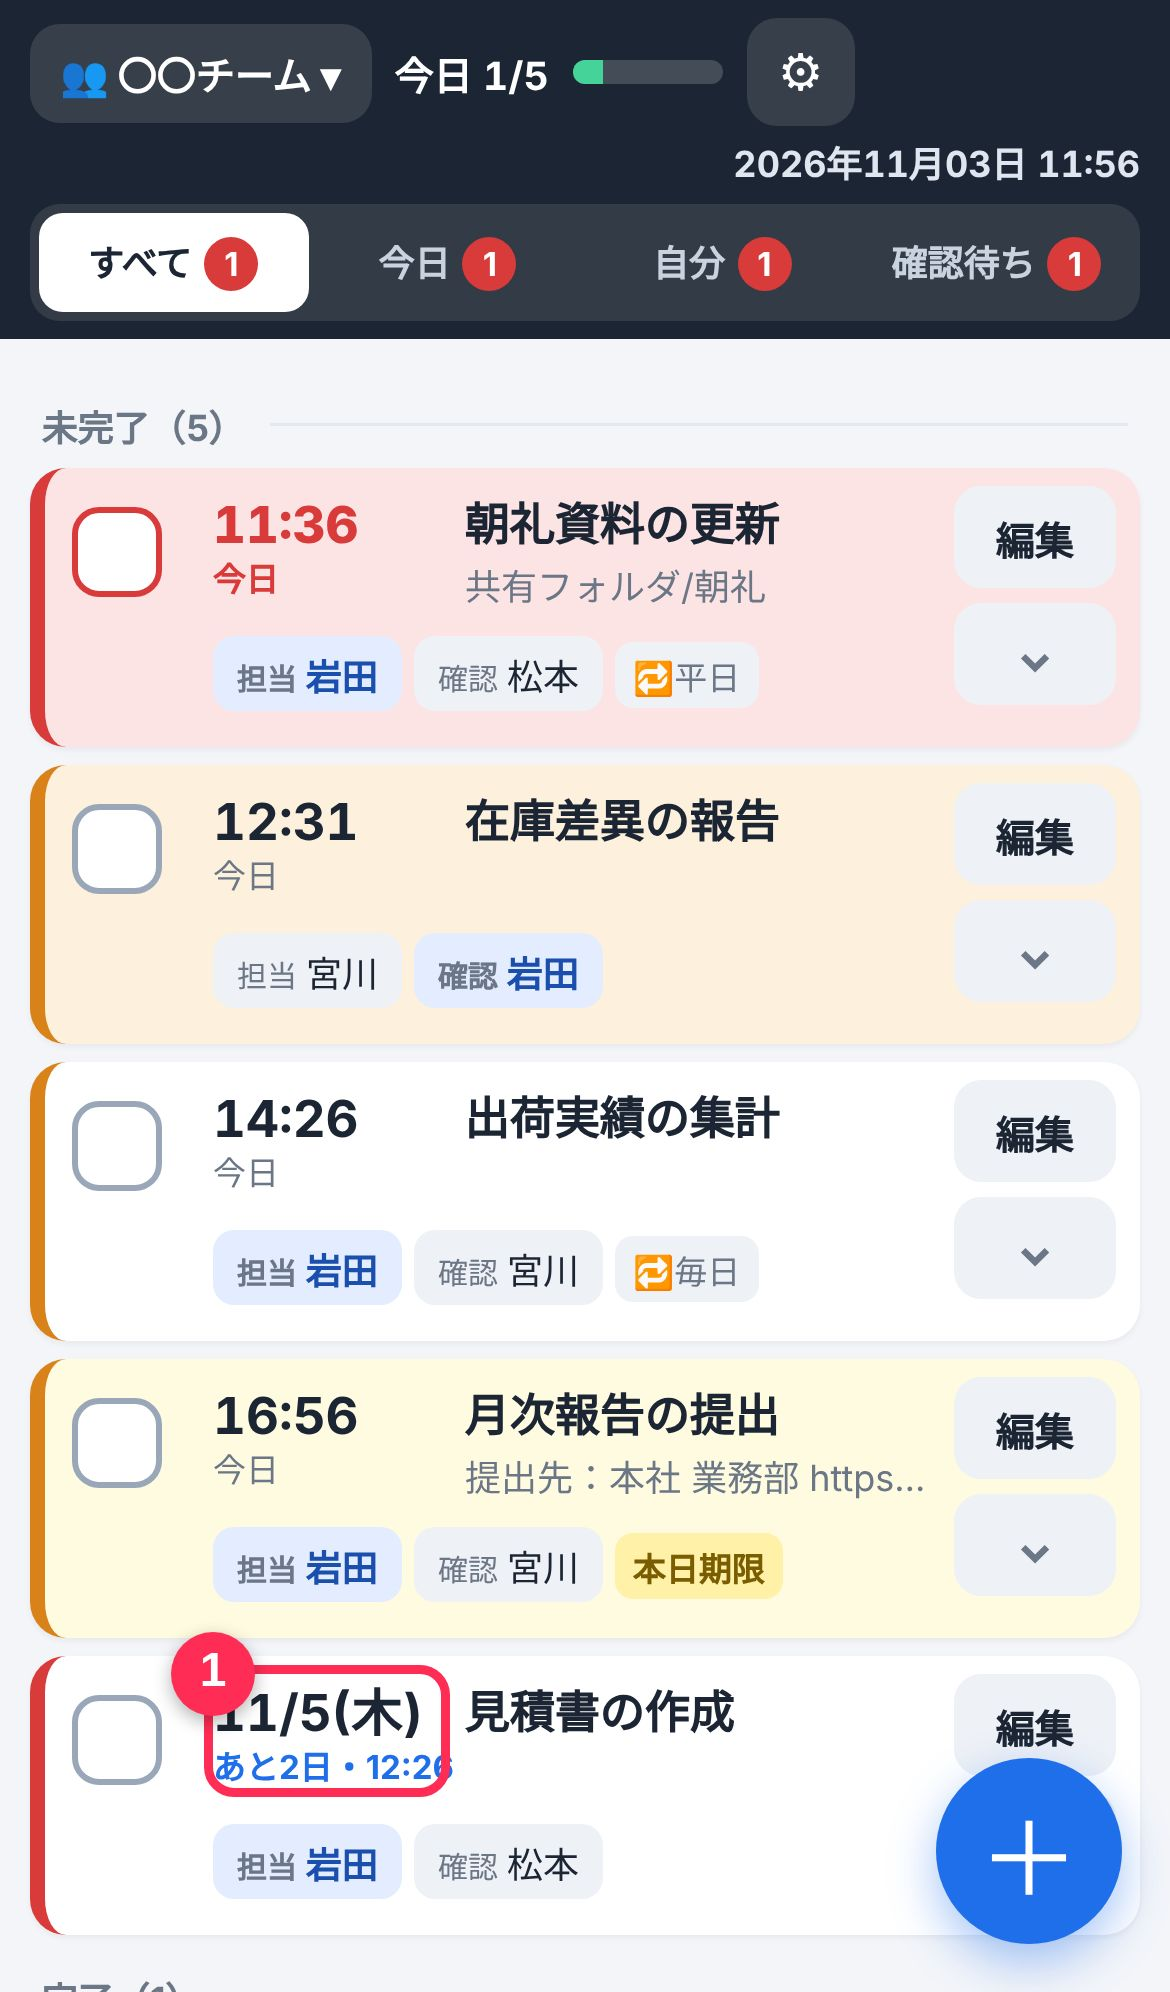
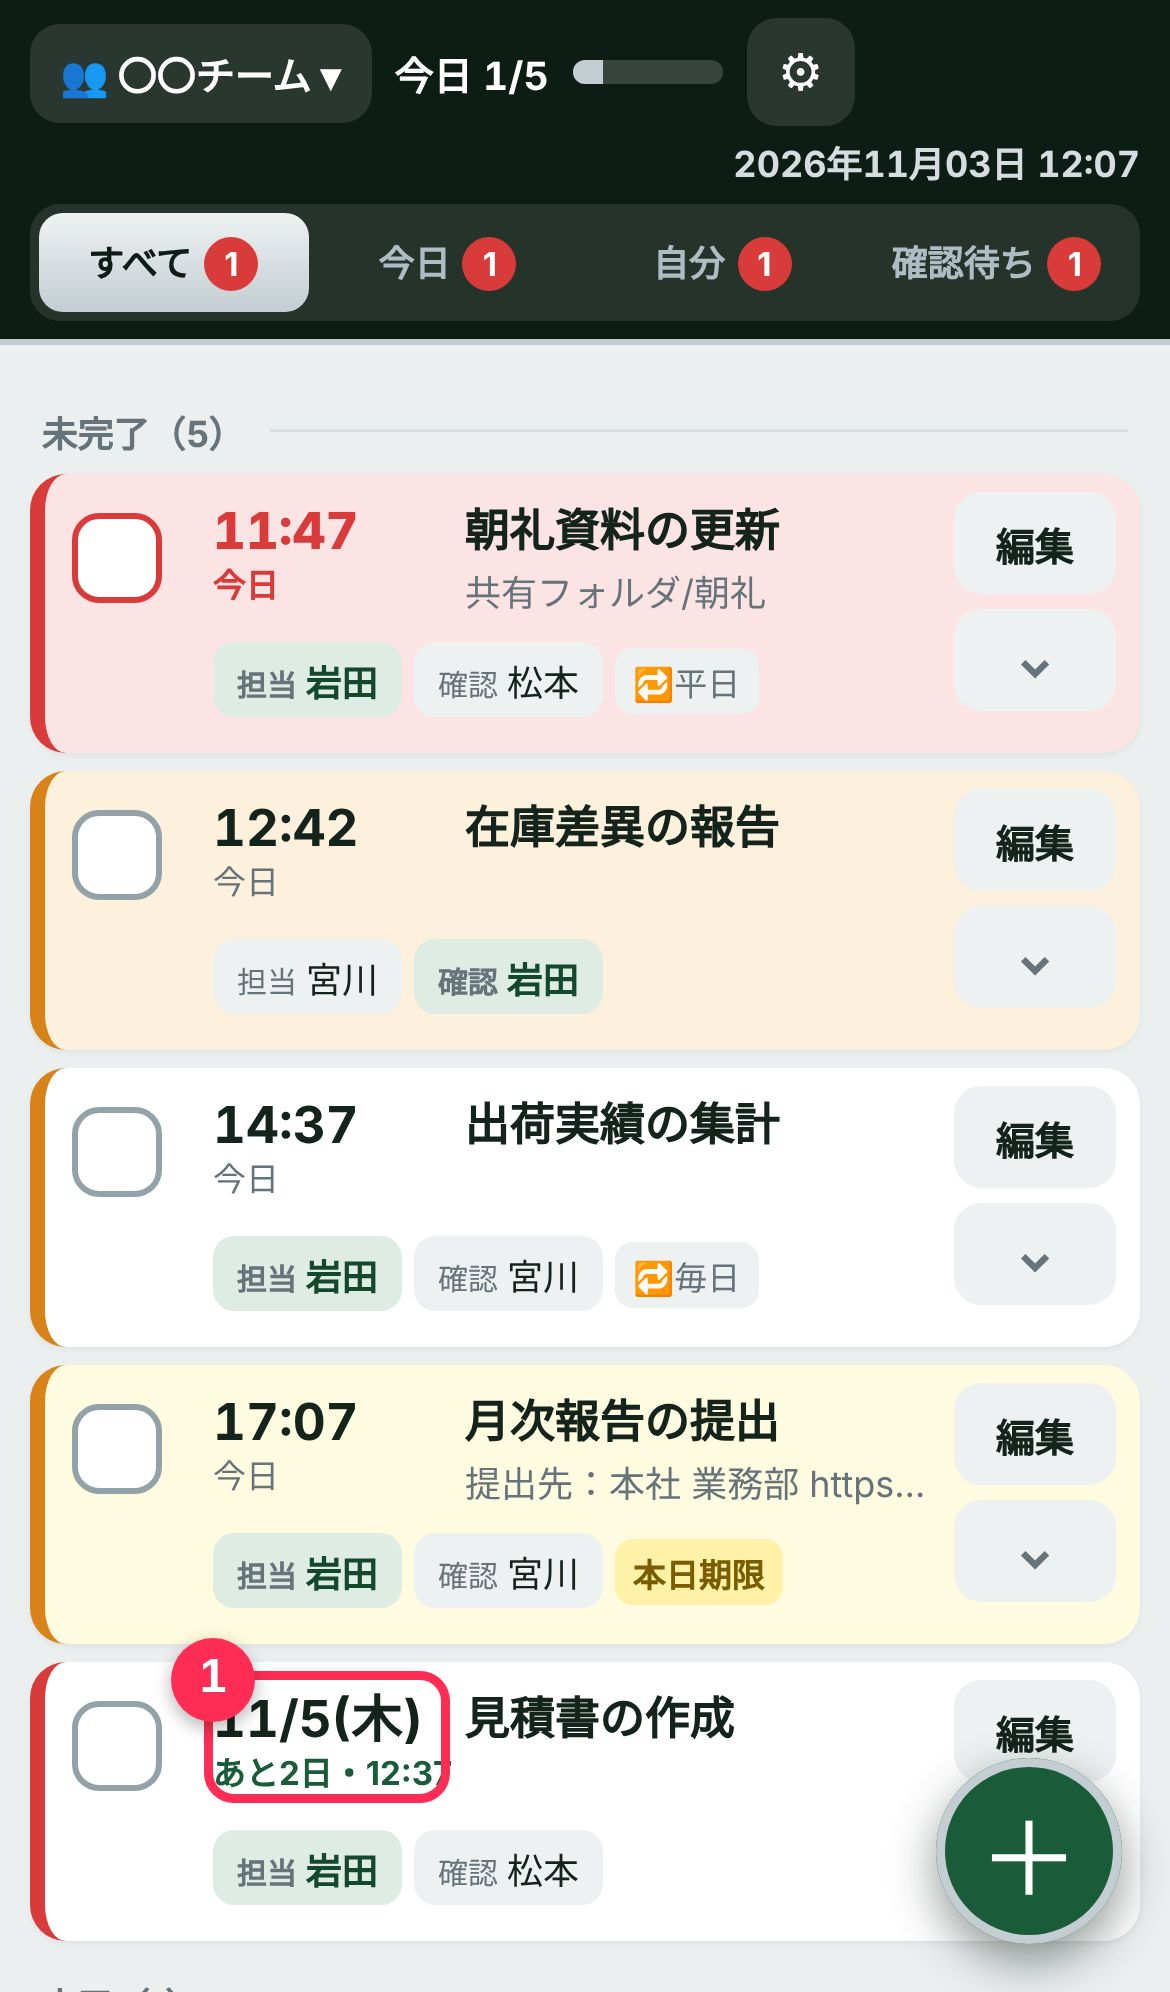
配色をスリザリン風（深緑×銀×黒）に変更
Claude-Session: https://claude.ai/code/session_01CCTYimLHoh7ksLE7jkJJnQ

diff --git a/index.html b/index.html
@@ -4,7 +4,7 @@
 <meta charset="utf-8">
 <meta name="viewport" content="width=device-width,initial-scale=1,viewport-fit=cover">
 <title>チームToDo</title>
-<meta name="theme-color" content="#1c2533">
+<meta name="theme-color" content="#0d1c14">
 <meta name="apple-mobile-web-app-capable" content="yes">
 <meta name="mobile-web-app-capable" content="yes">
 <meta name="apple-mobile-web-app-status-bar-style" content="black-translucent">
@@ -14,26 +14,26 @@
 <link rel="manifest" href="manifest.json">
 <script src="config.js"></script>
 <style>
-:root{--bg:#f3f5f9;--card:#fff;--ink:#1c2533;--sub:#6b7686;--line:#e4e8ef;--main:#1f6feb;--main2:#e3edff;--ok:#24946a;--ok2:#ddf3e9;--warn:#d9821a;--warn2:#fdf0dc;--bad:#d93a3a;--bad2:#fde4e4;--hd:#1c2533}
+:root{--bg:#eceff0;--card:#fff;--ink:#14231b;--sub:#66737a;--line:#d8dee1;--main:#1a5c3a;--main2:#dfece4;--ok:#6c7f89;--ok2:#e4eaed;--warn:#d9821a;--warn2:#fdf0dc;--bad:#d93a3a;--bad2:#fde4e4;--hd:#0d1c14;--silver:#c3cdd2}
 *{box-sizing:border-box;margin:0;padding:0}
 html,body{height:100%}
 body{overflow-x:hidden;font-family:-apple-system,BlinkMacSystemFont,"Hiragino Sans","Noto Sans JP",sans-serif;background:var(--bg);color:var(--ink);-webkit-tap-highlight-color:transparent;overscroll-behavior-y:none}
 button{font:inherit;color:inherit;border:0;background:none;cursor:pointer}
 input,select,textarea{font:inherit;color:inherit}
 /* header */
-header{position:sticky;top:0;z-index:20;background:var(--hd);color:#fff;display:flex;align-items:center;gap:10px;
+header{border-bottom:2px solid var(--silver);position:sticky;top:0;z-index:20;background:var(--hd);color:#fff;display:flex;align-items:center;gap:10px;
  padding:calc(6px + env(safe-area-inset-top)) calc(10px + env(safe-area-inset-right)) 6px calc(10px + env(safe-area-inset-left));min-height:50px}
 .brand{font-weight:800;font-size:16px;white-space:nowrap}
 .prog{display:flex;align-items:center;gap:8px;min-width:120px}
 .ptxt{font-size:13px;font-weight:700;white-space:nowrap;font-variant-numeric:tabular-nums}
 .pbar{width:80px;height:8px;background:rgba(255,255,255,.18);border-radius:5px;overflow:hidden}
-.pbar i{display:block;height:100%;width:0;background:#46d39a;transition:width .4s}
+.pbar i{display:block;height:100%;width:0;background:var(--silver);transition:width .4s}
 .seg{display:flex;background:rgba(255,255,255,.1);border-radius:10px;padding:3px;gap:2px;margin-left:auto}
-.seg button{padding:7px 12px;border-radius:8px;font-size:13px;font-weight:700;color:#c9d2df;white-space:nowrap;position:relative}
-.seg button.on{background:#fff;color:var(--hd)}
+.seg button{padding:7px 12px;border-radius:8px;font-size:13px;font-weight:700;color:#aebcc3;white-space:nowrap;position:relative}
+.seg button.on{background:linear-gradient(180deg,#eef2f3,#c3cdd2);color:var(--hd)}
 .seg .n{display:inline-block;min-width:18px;padding:0 5px;margin-left:4px;border-radius:9px;background:var(--bad);color:#fff;font-size:11px;line-height:18px}
 .me{padding:7px 10px;border-radius:10px;background:rgba(255,255,255,.12);font-size:13px;font-weight:700;white-space:nowrap}
-.clock{font-size:13px;font-weight:700;white-space:nowrap;font-variant-numeric:tabular-nums;color:#dfe6f0;text-align:right;line-height:1.2}
+.clock{font-size:13px;font-weight:700;white-space:nowrap;font-variant-numeric:tabular-nums;color:#d5dde1;text-align:right;line-height:1.2}
 .team{padding:7px 10px;border-radius:10px;background:rgba(255,255,255,.12);font-size:13px;font-weight:700;white-space:nowrap;max-width:170px;overflow:hidden;text-overflow:ellipsis}
 .tl{display:flex;align-items:center;gap:10px;background:#fff;border-radius:12px;padding:12px 14px;margin-bottom:8px;border:2px solid transparent}
 .tl.cur{border-color:var(--main)}
@@ -48,19 +48,19 @@ main{padding:8px calc(10px + env(safe-area-inset-right)) calc(90px + env(safe-ar
 .sec{font-size:12px;font-weight:700;color:var(--sub);margin:12px 4px 6px;display:flex;align-items:center;gap:8px}
 .sec::after{content:"";flex:1;height:1px;background:var(--line)}
 .row{display:grid;grid-template-columns:52px 96px 1fr auto auto;align-items:center;gap:8px;background:var(--card);border-radius:12px;margin-bottom:6px;min-height:58px;padding:4px 10px 4px 0;
- box-shadow:0 1px 2px rgba(0,0,0,.05);border-left:5px solid #c9d1dc;transition:transform .35s,opacity .35s}
-.row.p0{border-left-color:var(--bad)}.row.p1{border-left-color:var(--warn)}.row.p2{border-left-color:#9fb0c4}
+ box-shadow:0 1px 2px rgba(0,0,0,.05);border-left:5px solid #bcc7cc;transition:transform .35s,opacity .35s}
+.row.p0{border-left-color:var(--bad)}.row.p1{border-left-color:var(--warn)}.row.p2{border-left-color:#a3b0b6}
 .row.over{background:var(--bad2)}
 .row.soon{background:var(--warn2)}
 .row.leaving{transform:translateY(30px);opacity:0}
 .row.done{opacity:.62;border-left-color:var(--ok)}
-.row.done.wait{opacity:1;background:#eaf8f1;border-left-color:var(--ok)}
+.row.done.wait{opacity:1;background:#e9eef1;border-left-color:var(--ok)}
 .row.done.wait .t{text-decoration:none;color:var(--ink)}
 .row.mild{background:#fffbe0}
-.tag.w{background:#d7f3e5;color:#16784f;font-weight:700}
+.tag.w{background:#dde5e9;color:#46565f;font-weight:700}
 .tag.y{background:#fff1a8;color:#7a5d00;font-weight:700}
-.xv{width:34px;height:34px;border-radius:9px;background:#eef1f6;color:var(--sub);font-size:15px;font-weight:900;transition:transform .25s;flex:none}
-.xe{height:34px;padding:0 10px;border-radius:9px;background:#eef1f6;color:var(--ink);font-size:13px;font-weight:700;white-space:nowrap}
+.xv{width:34px;height:34px;border-radius:9px;background:#eef1f2;color:var(--sub);font-size:15px;font-weight:900;transition:transform .25s;flex:none}
+.xe{height:34px;padding:0 10px;border-radius:9px;background:#eef1f2;color:var(--ink);font-size:13px;font-weight:700;white-space:nowrap}
 .acts .xv{width:auto}
 .row.xo .xv{transform:rotate(180deg);background:var(--main2);color:var(--main)}
 .xp{grid-column:1/-1;display:grid;grid-template-rows:0fr;transition:grid-template-rows .28s ease}
@@ -72,7 +72,7 @@ main{padding:8px calc(10px + env(safe-area-inset-right)) calc(90px + env(safe-ar
 .xin dl{display:grid;grid-template-columns:auto 1fr;gap:0 12px}
 .xin dt{color:var(--sub)}
 .xin .eb{margin-top:8px;padding:8px 16px;border-radius:9px;background:var(--main);color:#fff;font-weight:700;font-size:13px}
-.sub{display:flex;gap:4px;background:#e6eaf0;border-radius:10px;padding:3px;margin:10px 4px 0;width:max-content}
+.sub{display:flex;gap:4px;background:#dfe4e6;border-radius:10px;padding:3px;margin:10px 4px 0;width:max-content}
 .sub button{padding:6px 14px;border-radius:8px;font-size:13px;font-weight:700;color:var(--sub)}
 .sub button.on{background:#fff;color:var(--ink);box-shadow:0 1px 2px rgba(0,0,0,.08)}
 #mild .card{max-width:520px;margin:auto;width:calc(100% - 24px)}
@@ -80,7 +80,7 @@ main{padding:8px calc(10px + env(safe-area-inset-right)) calc(90px + env(safe-ar
 #mild .mi b{font-size:18px;font-variant-numeric:tabular-nums;min-width:56px}
 .row.done .t{text-decoration:line-through;color:var(--sub)}
 .ck{width:52px;height:52px;display:flex;align-items:center;justify-content:center}
-.ck span{width:30px;height:30px;border-radius:9px;border:2.5px solid #9aa7b8;display:flex;align-items:center;justify-content:center;font-size:18px;font-weight:900;color:#fff;background:#fff;transition:.15s}
+.ck span{width:30px;height:30px;border-radius:9px;border:2.5px solid #93a2a9;display:flex;align-items:center;justify-content:center;font-size:18px;font-weight:900;color:#fff;background:#fff;transition:.15s}
 .row.over .ck span{border-color:var(--bad)}
 .row.done .ck span{background:var(--ok);border-color:var(--ok)}
 .due{line-height:1.15}
@@ -92,18 +92,18 @@ main{padding:8px calc(10px + env(safe-area-inset-right)) calc(90px + env(safe-ar
 .t{font-size:15px;font-weight:700;white-space:nowrap;overflow:hidden;text-overflow:ellipsis}
 .d{font-size:12px;color:var(--sub);white-space:nowrap;overflow:hidden;text-overflow:ellipsis}
 .ppl{display:flex;gap:5px;flex-wrap:nowrap;align-items:center}
-.who{font-size:12px;padding:4px 8px;border-radius:7px;background:#eef1f6;white-space:nowrap}
+.who{font-size:12px;padding:4px 8px;border-radius:7px;background:#eef1f2;white-space:nowrap}
 .who i{font-style:normal;color:var(--sub);font-size:10px;margin-right:3px}
-.who.mine{background:var(--main2);color:#1a4fae;font-weight:700}
+.who.mine{background:var(--main2);color:#14482d;font-weight:700}
 .tags{display:flex;gap:4px;align-items:center;justify-content:flex-end;flex-wrap:wrap}
 .tags:empty{display:none}
 .acts{display:flex;flex-direction:column;gap:5px;align-items:stretch}
-.tag{font-size:11px;padding:3px 6px;border-radius:6px;background:#eef1f6;color:var(--sub);white-space:nowrap}
+.tag{font-size:11px;padding:3px 6px;border-radius:6px;background:#eef1f2;color:var(--sub);white-space:nowrap}
 .cfm{font-size:12px;font-weight:700;padding:7px 10px;border-radius:8px;background:var(--main);color:#fff;white-space:nowrap}
 .okd{font-size:11px;color:var(--ok);font-weight:700;white-space:nowrap}
 .empty{text-align:center;color:var(--sub);padding:34px 10px;font-size:14px}
 .empty b{display:block;font-size:30px;margin-bottom:6px}
-.fab{position:fixed;right:calc(16px + env(safe-area-inset-right));bottom:calc(16px + env(safe-area-inset-bottom));width:62px;height:62px;border-radius:50%;background:var(--main);color:#fff;font-size:34px;font-weight:300;box-shadow:0 6px 16px rgba(31,111,235,.4);z-index:15}
+.fab{position:fixed;right:calc(16px + env(safe-area-inset-right));bottom:calc(16px + env(safe-area-inset-bottom));width:62px;height:62px;border-radius:50%;background:var(--main);color:#fff;font-size:34px;font-weight:300;box-shadow:0 6px 16px rgba(13,28,20,.45),inset 0 0 0 3px var(--silver);z-index:15}
 /* sheets */
 .ov{position:fixed;inset:0;padding-top:env(safe-area-inset-top);background:rgba(15,22,33,.45);z-index:40;display:none;align-items:flex-end;justify-content:center}
 .ov.show{display:flex}
@@ -128,7 +128,7 @@ textarea.in{min-height:56px;resize:vertical}
 .chip.on{background:var(--main);border-color:var(--main);color:#fff}
 .chip.pr0.on{background:var(--bad);border-color:var(--bad)}
 .chip.pr1.on{background:var(--warn);border-color:var(--warn)}
-.chip.pr2.on{background:#7c8da3;border-color:#7c8da3}
+.chip.pr2.on{background:#7d8d95;border-color:#7d8d95}
 .inl{display:flex;gap:8px;align-items:center;flex-wrap:wrap}
 .inl .in{width:auto;flex:1;min-width:130px}
 .del{margin-top:16px;width:100%;padding:12px;border-radius:10px;background:var(--bad2);color:var(--bad);font-weight:700}
@@ -137,8 +137,8 @@ textarea.in{min-height:56px;resize:vertical}
 .card h4{font-size:13px;margin-bottom:8px}
 .card p{font-size:12px;color:var(--sub);line-height:1.6}
 .btn{display:inline-block;padding:10px 16px;border-radius:10px;background:var(--main);color:#fff;font-weight:700;font-size:14px}
-.btn.sub{background:var(--main2);color:#1a4fae}
-.btn.gray{background:#eef1f6;color:var(--ink)}
+.btn.sub{background:var(--main2);color:#14482d}
+.btn.gray{background:#eef1f2;color:var(--ink)}
 .mem{display:flex;gap:6px;margin-bottom:6px}
 .mem .in{padding:8px 10px}
 .mem button{padding:0 12px;white-space:nowrap;flex:none;border-radius:9px;background:var(--bad2);color:var(--bad);font-weight:700}
@@ -270,7 +270,7 @@ textarea.in{min-height:56px;resize:vertical}
     <div style="margin-top:8px;display:flex;gap:6px;flex-wrap:wrap"><button class="btn" id="sShare">招待リンクを送る</button><button class="btn sub" id="sCopy">コピー</button></div>
     <p style="margin-top:6px;word-break:break-all" id="sLink"></p></div>
    <div class="card"><h4>メンバー</h4><div id="sMem"></div>
-    <div class="mem"><input class="in" id="sNew" placeholder="名前を追加" maxlength="12"><button style="background:var(--main2);color:#1a4fae" id="sAdd">追加</button></div></div>
+    <div class="mem"><input class="in" id="sNew" placeholder="名前を追加" maxlength="12"><button style="background:var(--main2);color:#14482d" id="sAdd">追加</button></div></div>
    <div class="card"><h4>📖 使い方ガイド</h4><p>はじめての人向けの説明書です。</p><div style="margin-top:8px"><a class="btn sub" href="manual.html" style="text-decoration:none">ガイドを開く</a></div></div>
    <div class="card"><h4>チーム</h4><p id="sTeam"></p><div style="margin-top:8px"><button class="btn gray" id="sLeave">チームを切り替える</button></div></div>
   </div>

diff --git a/manual.html b/manual.html
@@ -4,13 +4,13 @@
 <meta charset="utf-8">
 <meta name="viewport" content="width=device-width,initial-scale=1,viewport-fit=cover">
 <title>チームToDo 使い方ガイド</title>
-<meta name="theme-color" content="#1c2533">
+<meta name="theme-color" content="#0d1c14">
 <link rel="icon" type="image/png" href="icon-192.png">
 <style>
-:root{--ink:#1c2533;--sub:#6b7686;--bg:#f3f5f9;--main:#1f6feb;--main2:#e3edff;--red:#ff2d55;--ok:#24946a;--line:#e4e8ef}
+:root{--ink:#14231b;--sub:#66737a;--bg:#eceff0;--main:#1a5c3a;--main2:#dfece4;--red:#ff2d55;--ok:#6c7f89;--line:#d8dee1}
 *{box-sizing:border-box;margin:0;padding:0}
 body{font-family:-apple-system,BlinkMacSystemFont,"Hiragino Sans","Noto Sans JP",sans-serif;background:var(--bg);color:var(--ink);line-height:1.6;-webkit-text-size-adjust:100%}
-.hero{background:var(--ink);color:#fff;padding:calc(28px + env(safe-area-inset-top)) 20px 26px;text-align:center}
+.hero{border-bottom:3px solid #c3cdd2;background:#0d1c14;color:#fff;padding:calc(28px + env(safe-area-inset-top)) 20px 26px;text-align:center}
 .hero img{width:72px;height:72px;border-radius:18px}
 .hero h1{font-size:24px;margin-top:10px}
 .hero p{font-size:14px;color:#c9d2df;margin-top:4px}
@@ -27,7 +27,7 @@ ol.k{list-style:none;margin-top:12px;display:flex;flex-direction:column;gap:8px}
 ol.k li{display:flex;gap:10px;align-items:flex-start;font-size:15px}
 ol.k b.m{flex:none;width:26px;height:26px;border-radius:50%;background:var(--red);color:#fff;font-size:14px;display:flex;align-items:center;justify-content:center;margin-top:1px}
 .lead{font-size:15px;margin-bottom:10px}
-.tip{background:var(--main2);color:#1a4fae;border-radius:12px;padding:10px 12px;font-size:14px;margin-top:10px}
+.tip{background:var(--main2);color:#14482d;border-radius:12px;padding:10px 12px;font-size:14px;margin-top:10px}
 .warn{background:#fde4e4;color:#a12424;border-radius:12px;padding:10px 12px;font-size:14px;margin-top:10px}
 .feat{display:grid;grid-template-columns:1fr 1fr 1fr;gap:8px;text-align:center}
 .feat div{background:#fff;border-radius:14px;padding:14px 6px;font-size:13px;font-weight:700}
